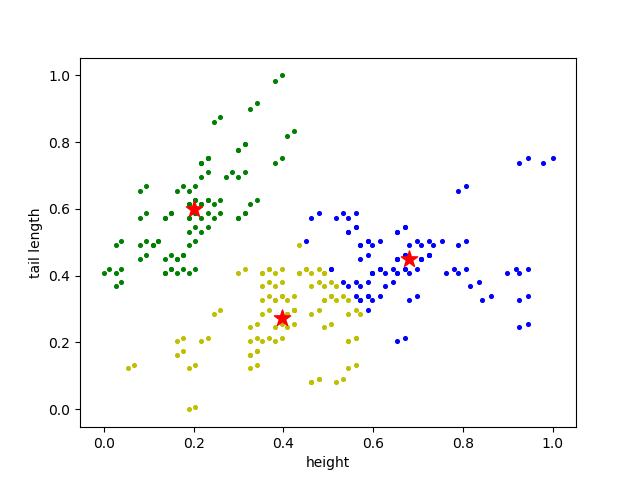
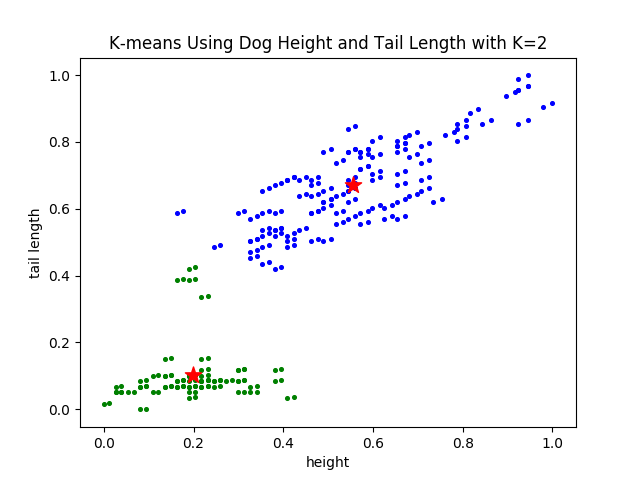
copy initialised centroids

diff --git a/kmeans/kmeans.py b/kmeans/kmeans.py
@@ -27,6 +27,7 @@ def kmeans(dataset, k):
     #prev_error = 100
     for i in range(max_it):
         clusters = {centroid: [] for centroid in range(k)}
+        c_old = deepcopy(centroids)
 
         print(f"Interation {i}")
         for i in dataset:
@@ -43,8 +44,6 @@ def kmeans(dataset, k):
 
         if error == 0:
             break
-
-        c_old = deepcopy(centroids)
 
 
     return centroids, clusters, errors
@@ -72,7 +71,7 @@ def compute_centroids(data):
     return np.mean(data, axis=0)
 
 
-def plot_data(data, centroids, clusters):
+def plot_data(data, centroids, clusters, k):
     plt.figure()
     _, ax = plt.subplots()
 
@@ -84,27 +83,29 @@ def plot_data(data, centroids, clusters):
     ax.scatter(centroids[:,0], centroids[:,1], marker='*', s=150, c='r', label='centroid')
     plt.xlabel('height')
     plt.ylabel('tail length')
+    plt.title(f"K-means Using Dog Height and Tail Length with K={k}")
     plt.savefig(os.path.join('images', 'cluster.png'))
 
 
-def plot_error(error_data):
+def plot_error(error_data, k):
     plt.figure()
     plt.plot(error_data)
     plt.ylabel("error")
     plt.xlabel("iterations")
+    plt.title(f"Iteration Error of Dog Height and Tail Length with K={k}")
     plt.savefig(os.path.join('images', 'kmean_error.png'))
 
 
 def main():
     df = dp.load_data('dog_breeds.csv')
     data = dp.data_norm(df)
-    k = 3
+    k = 2
 
-    centroids, clusters, errors = kmeans(data[['height', 'tail length']].values, k)
+    centroids, clusters, errors = kmeans(data[['height', 'leg length']].values, k)
 
     print (errors)
-    plot_data(data, centroids, clusters)
-    plot_error(errors)
+    plot_data(data, centroids, clusters, k)
+    plot_error(errors, k)
 
 if __name__ == '__main__':
     main()
